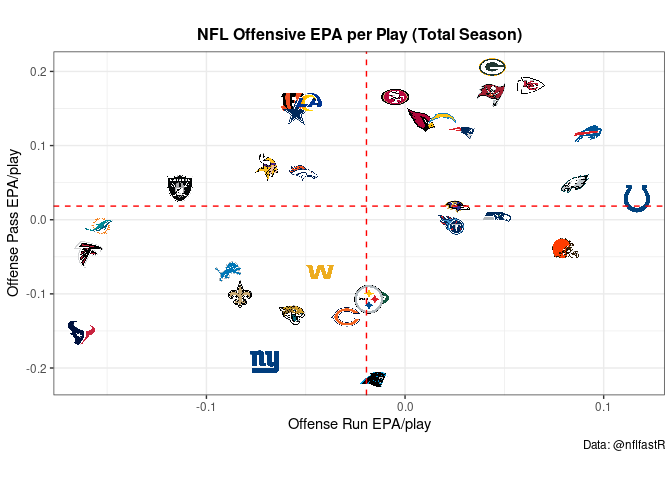
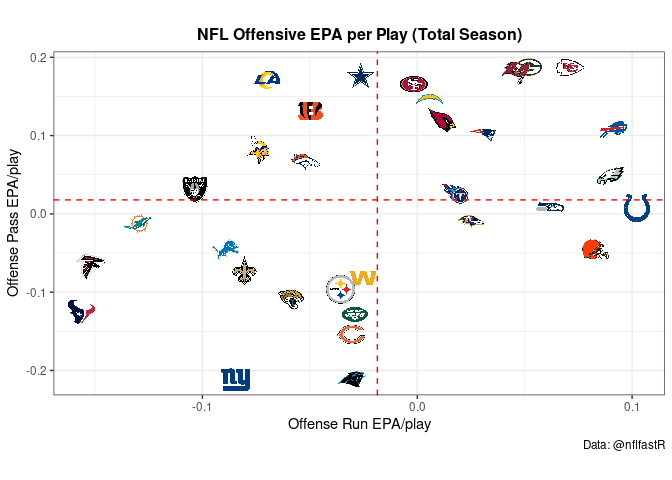
2022-01-11

diff --git a/NFL-Report.md b/NFL-Report.md
@@ -1,5 +1,5 @@
 
-# NFL Landscape: Week 17
+# NFL Landscape: Week 18
 
 ### Overall Efficiency Landscape
 
